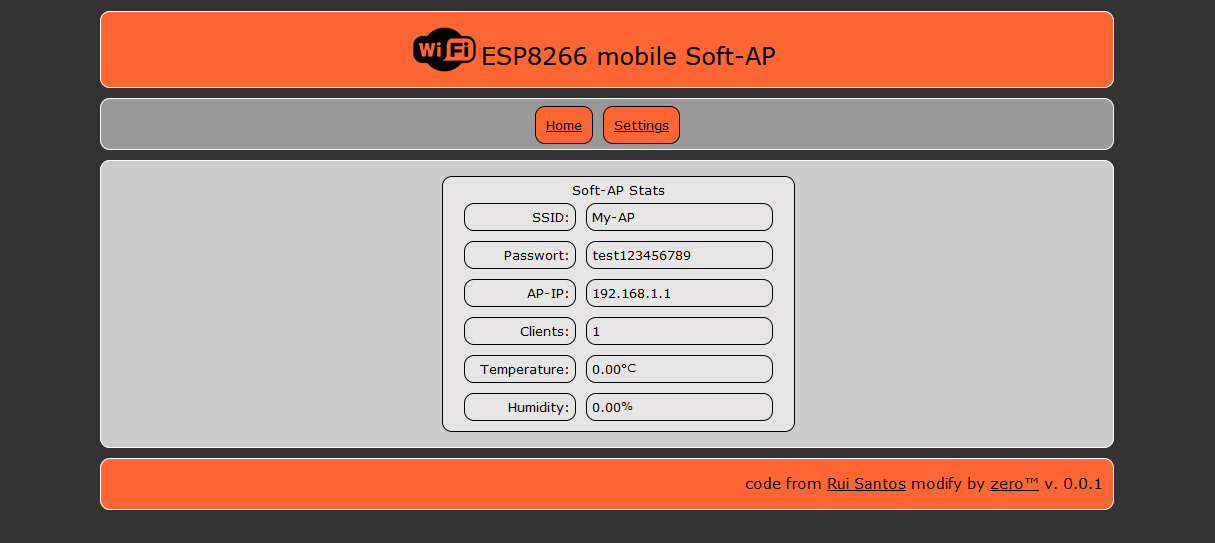
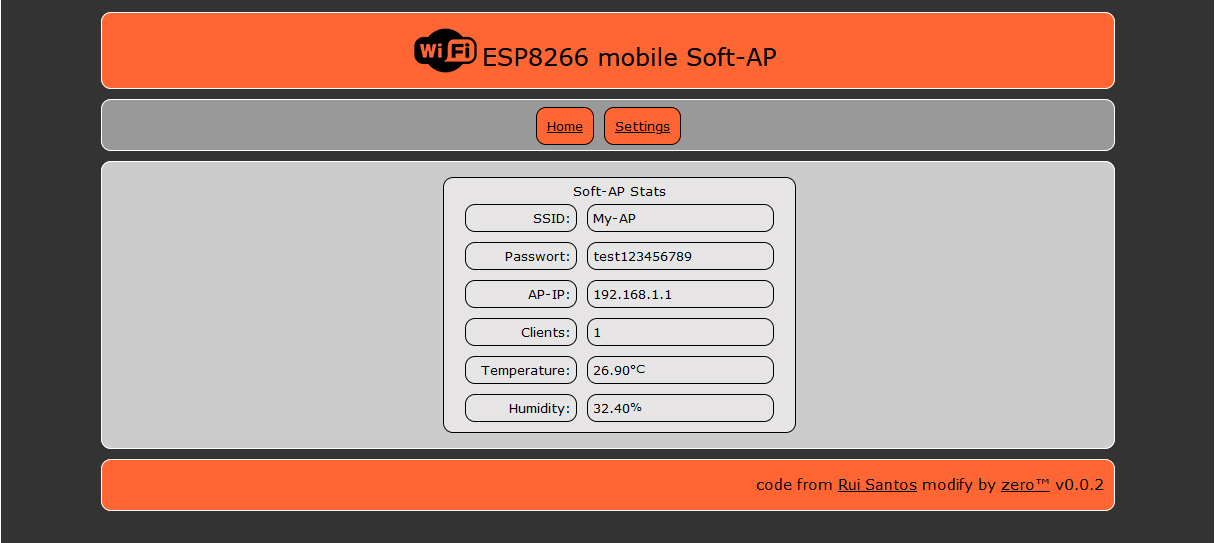
Bugfixes of  v0.0.1

diff --git a/src/html/index.h b/src/html/index.h
@@ -250,7 +250,7 @@ p {
                   Humidity:
                 </div>    
                 <div id="tabelle_left">
-                  %HUMIDITY%<sup class="units">%</sup>
+                  %HUMIDITY%<sup class="units">%%</sup>
                 </div>
               </div>  
 
@@ -263,7 +263,7 @@ p {
   </div>
   <div id="footerwrap">
     <div id="footer">
-      <p>code from <a href="https://github.com/RuiSantosdotme" target="_blank">Rui Santos</a> modify by <a href="https://github.com/w4b-zero" target="_blank">zero&trade;</a> v. 0.0.1</p>
+      <p>code from <a href="https://github.com/RuiSantosdotme" target="_blank">Rui Santos</a> modify by <a href="https://github.com/w4b-zero" target="_blank">zero&trade;</a> %FIRMWARE_VERSION%</p>
     </div>
   </div>
 </div>

diff --git a/src/html/sets.h b/src/html/sets.h
@@ -237,7 +237,7 @@ p {
   </div>
   <div id="footerwrap">
     <div id="footer">
-      <p>code from <a href="https://github.com/RuiSantosdotme" target="_blank">Rui Santos</a> modify by <a href="https://github.com/w4b-zero" target="_blank">zero&trade;</a> v. 0.0.1</p>
+      <p>code from <a href="https://github.com/RuiSantosdotme" target="_blank">Rui Santos</a> modify by <a href="https://github.com/w4b-zero" target="_blank">zero&trade;</a> %FIRMWARE_VERSION%</p>
     </div>
   </div>
 </div>

diff --git a/README.md b/README.md
@@ -12,7 +12,7 @@ changes by me
 + config stored in eeprom<br>
 + addet webpanel with config & infos<br>
 <br>
-Last Relase: v0.0.1<br>
+Last Relase: v0.0.2<br>
 
 
 Browser (win/Firefox)<br>
